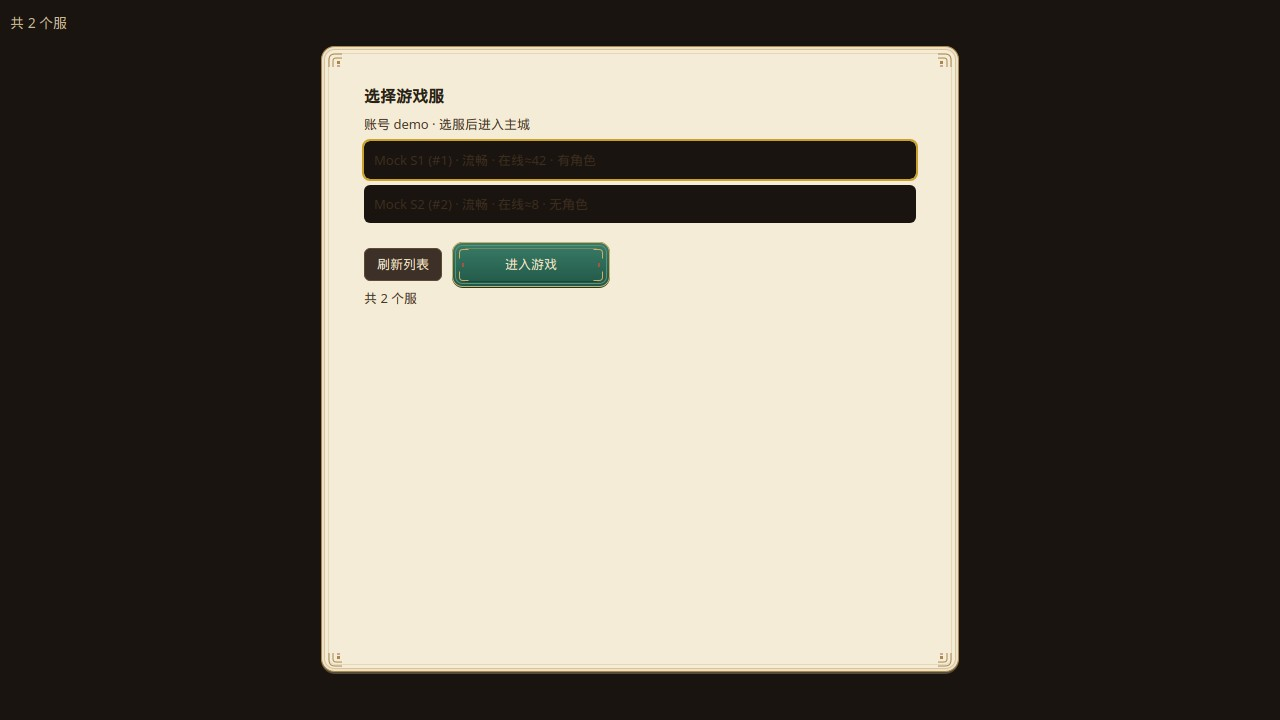
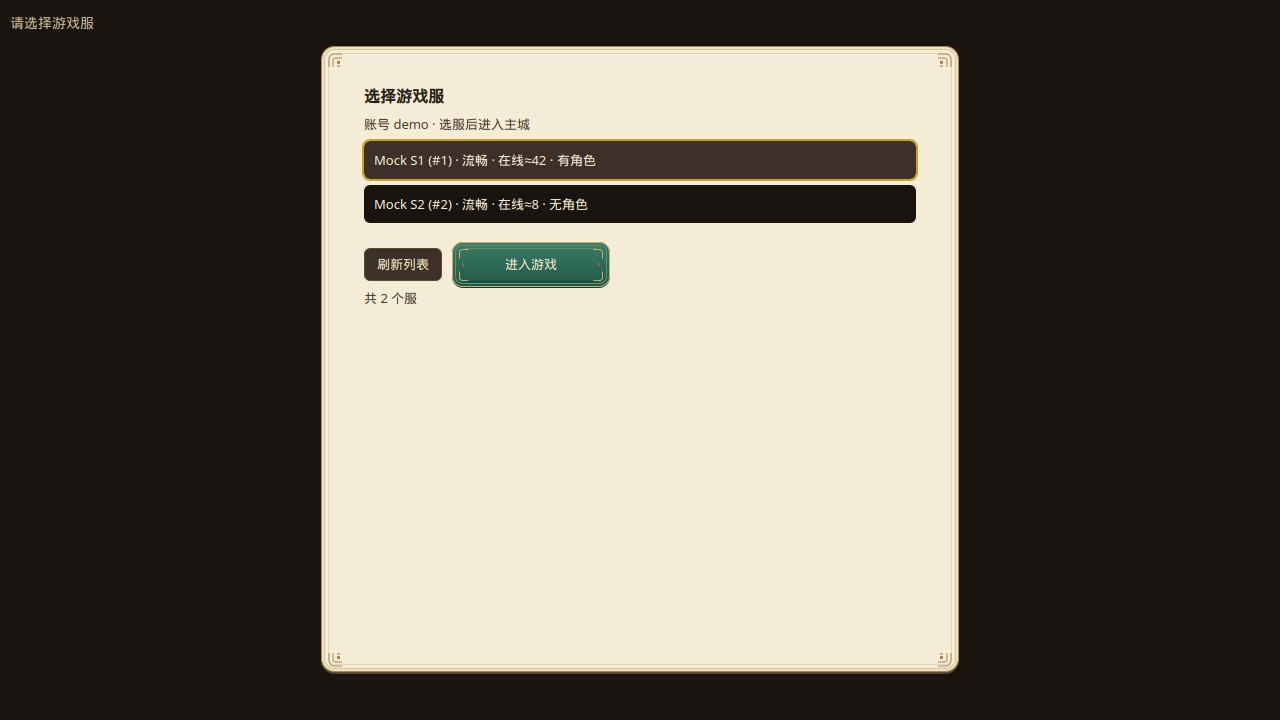
fix(client): ART-CHROME-006 选服列表深色行前景对比度
为 .server-list li 显式设置浅色前景，修复继承 paper 棕色字在 #1a1410 行背景上不可读。
HUD 不再重复展示「共 N 个服」；仅重拍四张选服证据 JPEG。

Changed region(s): [[0.2812, 0.1833, 0.7188, 0.3056], [0.0, 0.0, 0.0625, 0.0611]]

diff --git a/client/index.html b/client/index.html
@@ -330,9 +330,13 @@
       .server-list { list-style: none; margin: 8px 0; padding: 0; }
       .server-list li {
         padding: 10px; margin-bottom: 6px; background: #1a1410; border-radius: 6px; cursor: pointer;
+        color: #f5ecd7;
       }
-      .server-list li.selected { outline: 2px solid #c9a227; }
-      .server-list li.disabled { opacity: 0.5; pointer-events: none; }
+      .server-list li:hover:not(.disabled) { background: #3d3028; }
+      .server-list li.selected { outline: 2px solid #c9a227; color: #f5ecd7; }
+      .server-list li.disabled {
+        pointer-events: none; color: #d4c8a8; background: #221a14;
+      }
       .server-select-panel button:not(.art-btn-primary) {
         margin: 6px 6px 0 0; padding: 8px 12px; border: 1px solid #5c4a32; border-radius: 6px;
         background: #3d3028; color: #f5e6c8; cursor: pointer;

diff --git a/client/src/scenes/ServerSelectScene.ts b/client/src/scenes/ServerSelectScene.ts
@@ -83,7 +83,9 @@ export class ServerSelectScene implements Scene {
     }
     if (statusEl) statusEl.textContent = this.status;
     if (enterBtn) enterBtn.disabled = !this.selectedId;
-    this.hud.textContent = this.status || "请选择游戏服";
+    const hudBusy =
+      /^(连接|拉取|进入服)/.test(this.status) || this.status.includes("失败");
+    this.hud.textContent = hudBusy ? this.status : "请选择游戏服";
   }
 
   private onClick(ev: Event, ctx: SceneContext): void {
